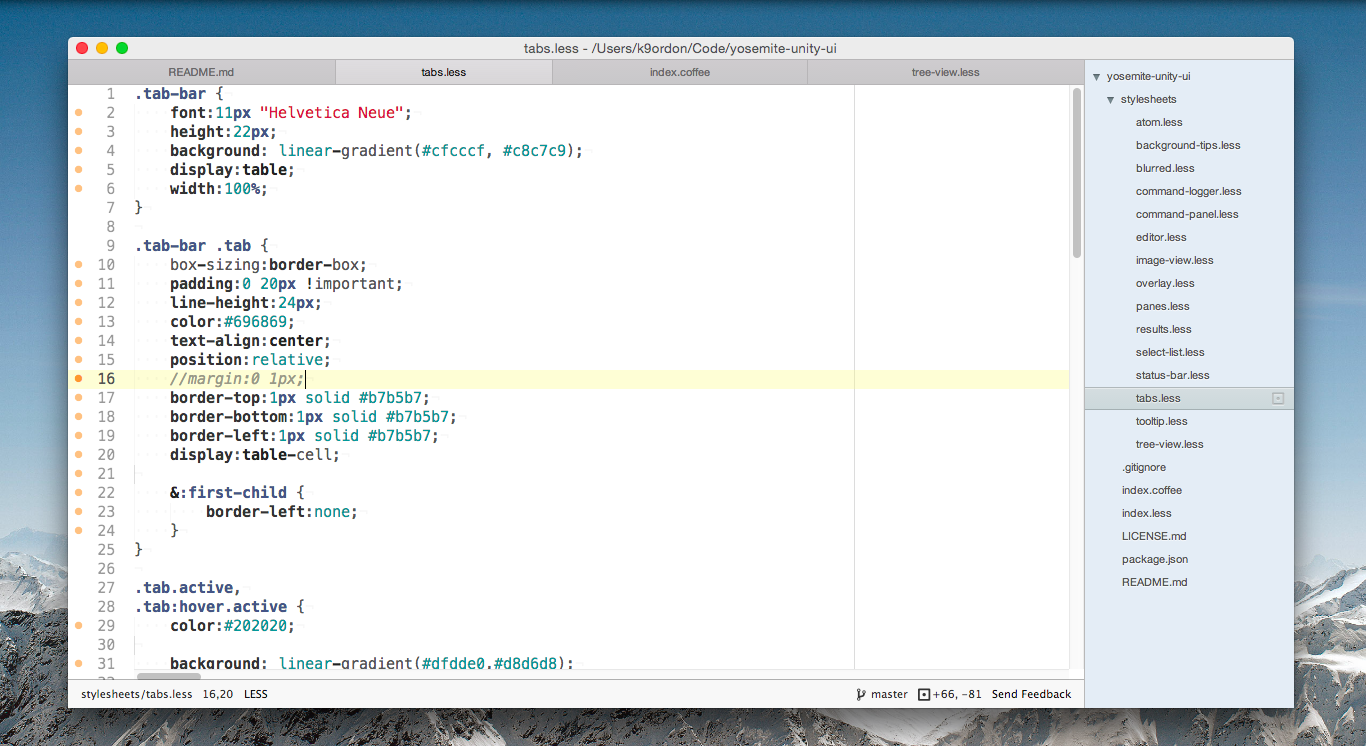
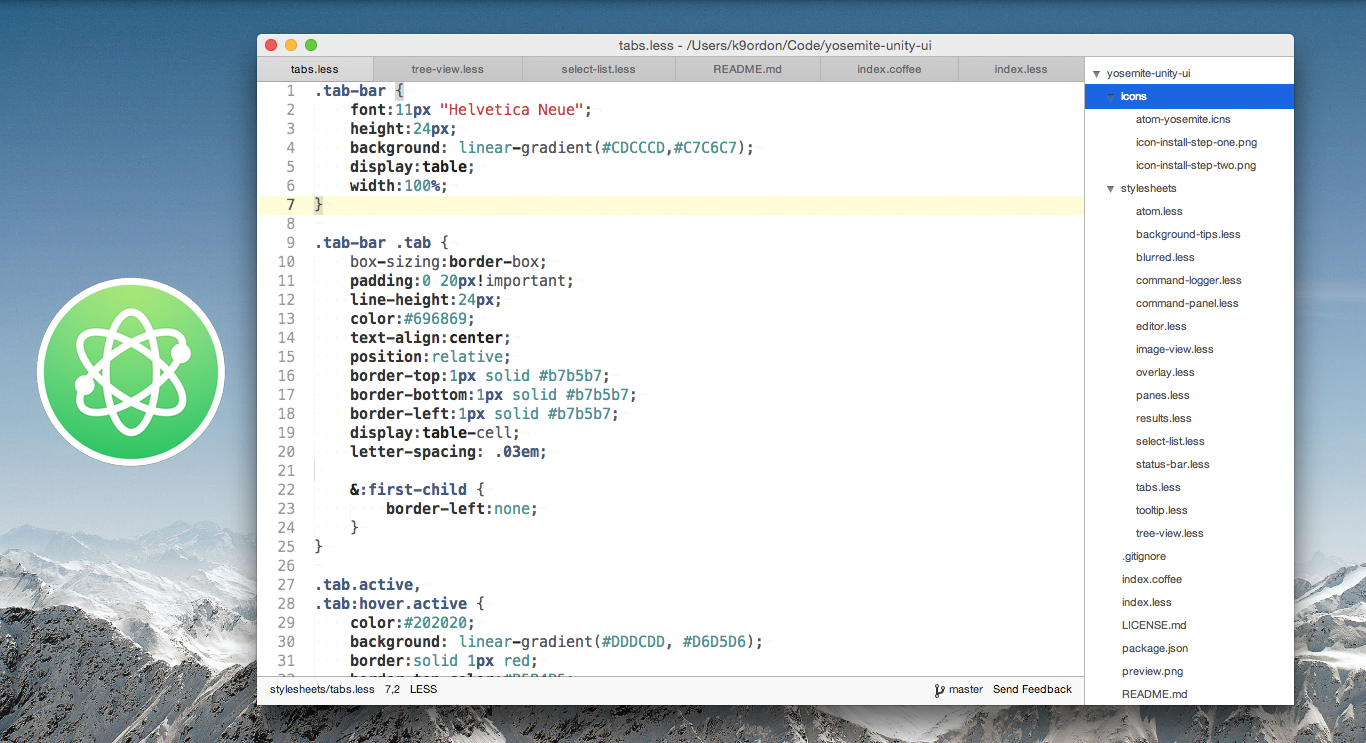
updated readme and preview

diff --git a/README.md b/README.md
@@ -19,10 +19,4 @@ Activate the theme by selecting the Themes section of Preferences.
 
 ## Replacing the Atom Icon
 If you wish to replace the official Atom Icon with the following [Atom-Yosemite-Icon](https://dribbble.com/shots/1590423-Atom-Yosemite-Icon
-) designed by [Rory McCawl](twitter.com/rmccawl) just follow these steps.
-
-Locate your installed Atom App, typically in Appications, then right click on the file and go to 'Get Info'
-![Yosemite Unity UI Preview](icons/icon-install-step-one.png)
-
-Drag the new icon file to the top right of the 'Get Info' pane to replace the exsiting icon
-![Yosemite Unity UI Preview](icons/icon-install-step-two.png)
+) designed by [Rory McCawl](twitter.com/rmccawl) just follow [these steps](icons/icon-install.md).

diff --git a/icons/icon-install.md b/icons/icon-install.md
@@ -1,0 +1,9 @@
+## Replacing the Atom Icon
+Replace the official Atom Icon with the [Atom-Yosemite-Icon](https://dribbble.com/shots/1590423-Atom-Yosemite-Icon
+) designed by [Rory McCawl](twitter.com/rmccawl).
+
+1. Locate your installed Atom App, typically in Appications, then right click on the file and go to 'Get Info'
+![Yosemite Unity UI Preview](icons/icon-install-step-one.png)
+
+2. Drag the new icon file to the top right of the 'Get Info' pane to replace the exsiting icon
+![Yosemite Unity UI Preview](icons/icon-install-step-two.png)
